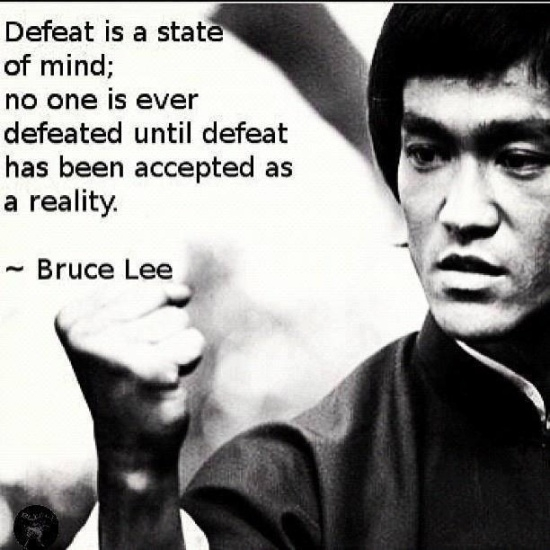
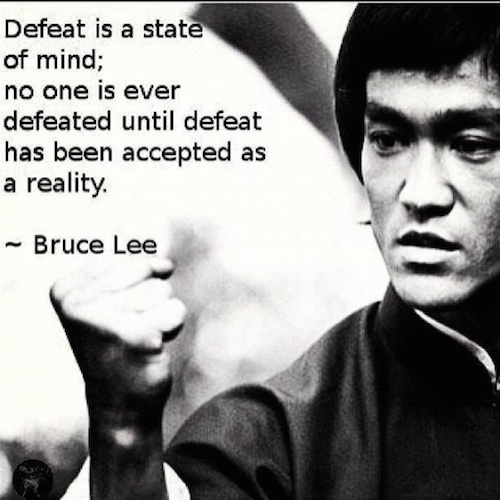
optimize

diff --git a/blog/Tao-Of-The-Extensible-Web.html b/blog/Tao-Of-The-Extensible-Web.html
@@ -412,7 +412,7 @@ America (art for sale)</a></li>
 	<section class="sectioning">
 		<contextual-heading role="heading" aria-level="2">There are values in principles, but nothing is too holy to be questioned...</contextual-heading>
 		<div class="captioned-image optional p-attached p-attached-right">
-			<img data-src="/media/bruce-lee-obey-principles.png" alt="Obey the principles without being bound by them - Bruce Lee">
+			<img data-src="/media/bruce-lee-obey-principles.jpg" alt="Obey the principles without being bound by them - Bruce Lee">
 			You know, all I keep hearing is "the fight took too long," "too&nbsp;much tradition,&nbsp;too much&nbsp;classical mess, too many fixed positions and Wing Chun". You know everything that's wrong, so fix it.&nbsp;- Linda Lee's character to Bruce in "Dragon: The Bruce Lee Story" (a fictional, but inspiring scene)
 		</div>
 
